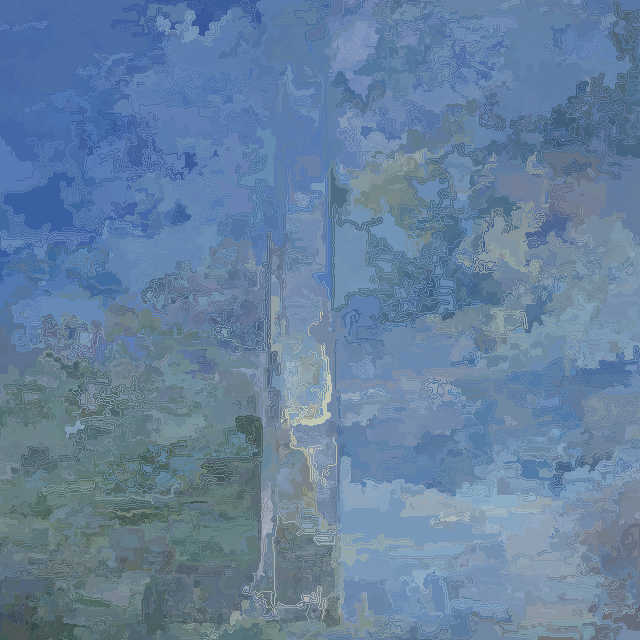
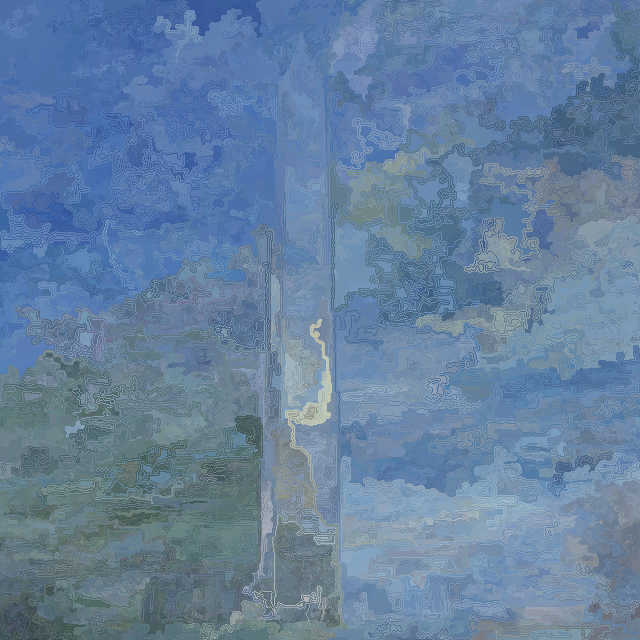
0079 - node --harmony /index.js

diff --git a/sketches/0079/index.js b/sketches/0079/index.js
@@ -187,7 +187,8 @@ co(function*(){
 		});
 
 		if(difs[0].val < 16){
-			color = lastColor;
+			color[difs[0].color] = lastColor[difs[0].color];
+			color[difs[1].color] = lastColor[difs[1].color];
 		}
 
 		img.set(x, y, 0, color.red);
